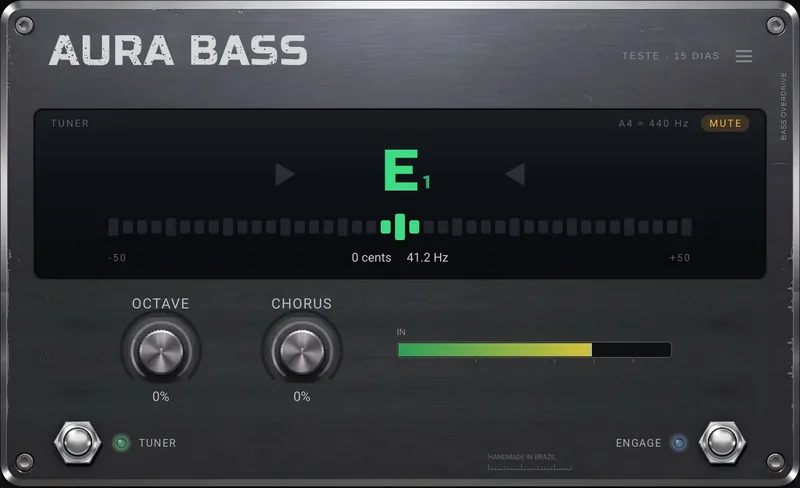
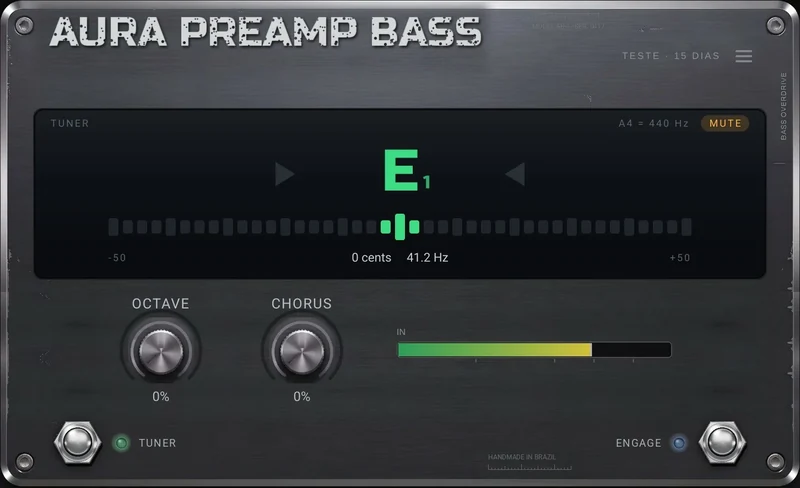
Add files via upload

Changed region(s): [[0.0312, 0.0, 0.625, 0.1537]]

diff --git a/index.html b/index.html
@@ -13,7 +13,7 @@
 <meta property="og:url" content="https://ledixplugins.com.br/">
 <meta property="og:title" content="Ledix Plugins · som feito para quem toca">
 <meta property="og:description" content="AURA Synth Bass e AURA Preamp Bass para Windows e Mac. Teste grátis por 15 dias.">
-<meta property="og:image" content="https://ledixplugins.com.br/assets/ledix-card.jpg?v=3"><meta property="og:image:width" content="1200"><meta property="og:image:height" content="630"><meta property="og:image:alt" content="Ledix Plugins: AURA Synth Bass e AURA Preamp Bass">
+<meta property="og:image" content="https://ledixplugins.com.br/assets/ledix-card.jpg?v=4"><meta property="og:image:width" content="1200"><meta property="og:image:height" content="630"><meta property="og:image:alt" content="Ledix Plugins: AURA Synth Bass e AURA Preamp Bass">
 <meta name="twitter:card" content="summary_large_image">
 <meta name="theme-color" content="#0E0D0C">
 <link rel="icon" href="assets/ledix-icon.svg" type="image/svg+xml"><link rel="apple-touch-icon" href="assets/apple-touch-icon.png">

diff --git a/aurabass/index.html b/aurabass/index.html
@@ -11,7 +11,7 @@
 <meta property="og:title" content="AURA Preamp Bass · todos os seus timbres num painel só">
 <meta property="og:description" content="Limpo, drive, oitava, chorus, caixa e afinador no mesmo lugar. Teste grátis por 15 dias.">
 <meta property="og:url" content="https://ledixplugins.com.br/aurabass/">
-<meta property="og:image" content="https://ledixplugins.com.br/assets/aurabass-card.jpg?v=3">
+<meta property="og:image" content="https://ledixplugins.com.br/assets/aurabass-card.jpg?v=4">
 <meta property="og:locale" content="pt_BR">
 <meta name="twitter:card" content="summary_large_image">
 <meta name="theme-color" content="#0E0D0C">
